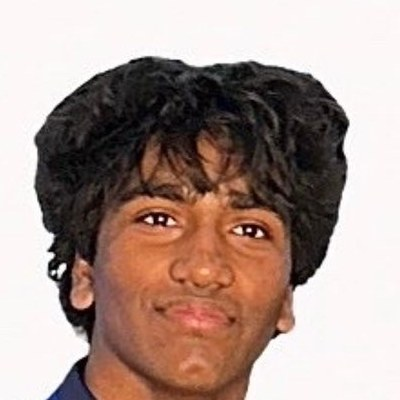
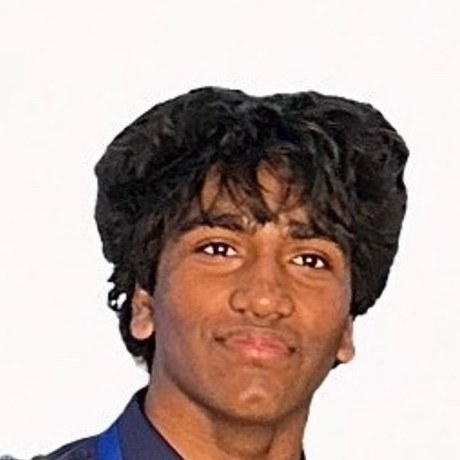
Enlarge officer photo circle to 200px so cards read as squares
Also fine-tune crop positions per feedback: Joshitha shifted down,
Anika shifted right, Chinmaya zoomed out slightly, Yashwin shifted
left slightly.

diff --git a/assets/css/styles.css b/assets/css/styles.css
@@ -975,8 +975,8 @@ h3 {
 
 .officer-photo {
   position: relative;
-  width: 120px;
-  height: 120px;
+  width: 200px;
+  height: 200px;
   border-radius: 50%;
   margin: 0 auto 18px;
   background: var(--navy);
@@ -985,7 +985,7 @@ h3 {
   align-items: center;
   justify-content: center;
   font-family: var(--font-heading);
-  font-size: 1.4rem;
+  font-size: 2.3rem;
   font-weight: 600;
   border: 2px solid var(--gold);
 }
